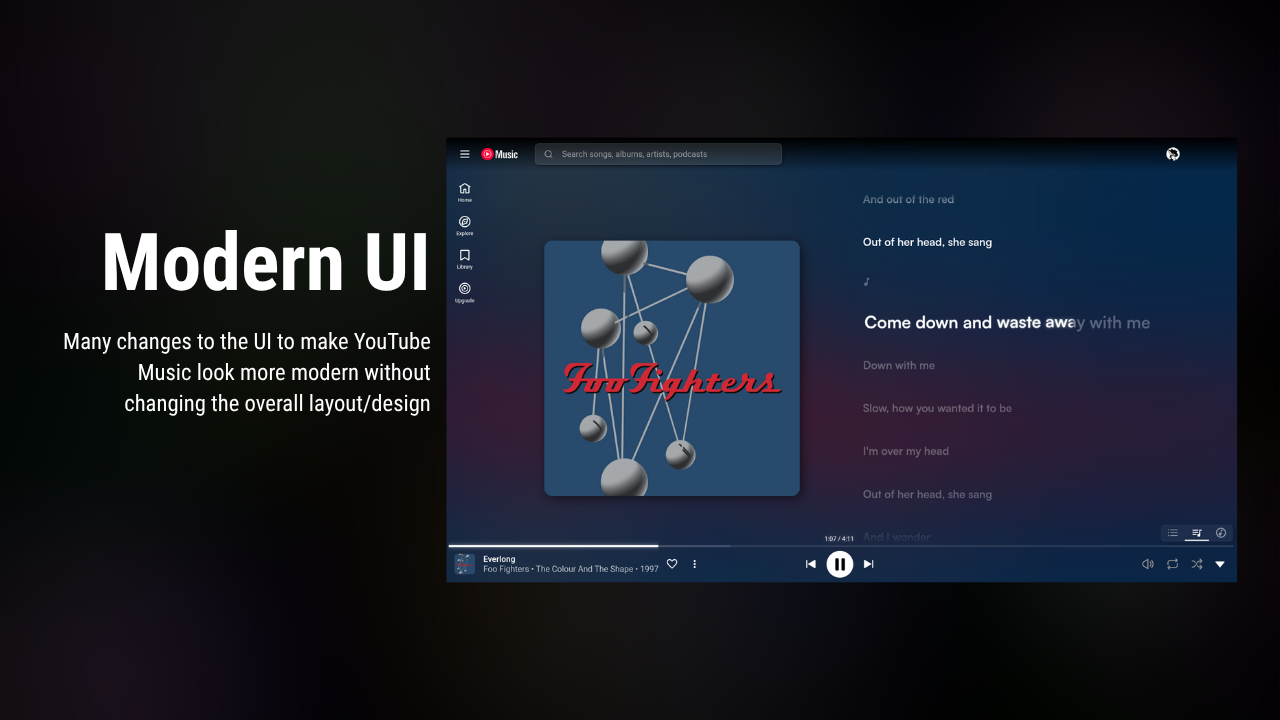
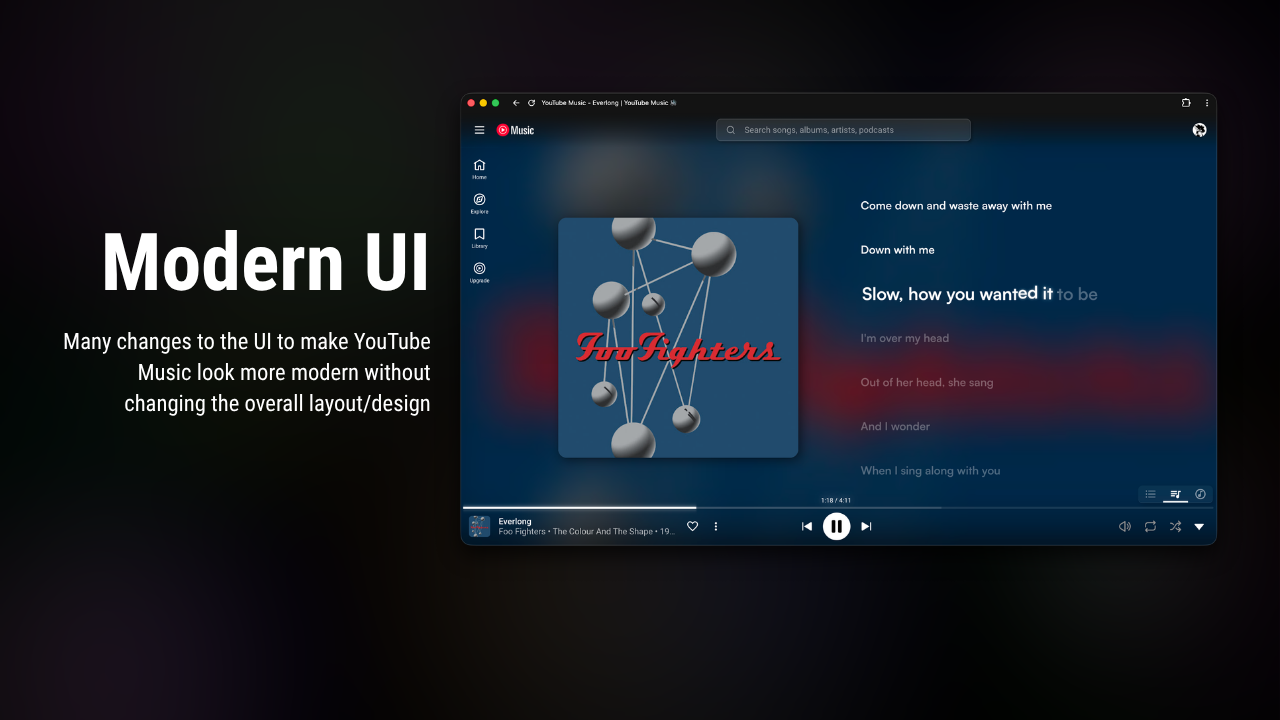
Mini update, mostly bug fixes and update images

diff --git a/style.css b/style.css
@@ -1,3 +1,5 @@
+
+
 /* Hey there, feel free to edit this or use this theme as a base
 If you have any sugestions, tell me on discord. Just ping @wolfthee on the blyrics discord server!
 
@@ -38,13 +40,16 @@ https://github.com/chengggit/YouTube-Music-Dynamic-Theme
 }
 
 
-
 :root {
 
 /* change ytm logo bc why not 
   .logo.ytmusic-logo {
     content: url(https://better-lyrics.boidu.dev/icon-512.png);
   }
+  
+  
+  Set this to your titlebar color*/ 
+  --titlebar-color: rgba(19,19,19,1);
 
 
 /* blyrics config, feel free to edit this */
@@ -98,10 +103,11 @@ https://github.com/chengggit/YouTube-Music-Dynamic-Theme
 
 /* background tuff */
   ytmusic-player-page:before {
-    background-size: unset;
+    background-size: cover;
     transform: translate3d(0, 0, 0); /*Attemp to force gpu usage for blur */
-    filter: brightness(50%) blur(35px) saturate(200%);
-    scale: 4;
+    filter: brightness(50%) blur(65px) saturate(200%);
+    object-fit: cover;
+    object-position: center;
   }
 
 
@@ -114,15 +120,14 @@ https://github.com/chengggit/YouTube-Music-Dynamic-Theme
     background-size: cover;
     background-position: center;
     background-repeat: no-repeat;
-    background-size: unset;
     transform: translate3d(0, 0, 0); /*Attemp to force gpu usage for blur */
-    filter: brightness(15%) blur(20px) saturate(200%);
-    scale: 4;
+    filter: brightness(15%) blur(50px) saturate(200%);
   }
 
   /* Sidebar stuff */
   ytmusic-app[is-bauhaus-sidenav-enabled] #guide-wrapper.ytmusic-app {
     background: rgba(0,0,0,0.3); 
+    backdrop-filter: blur(20px);
   }
 
   ytmusic-guide-entry-renderer[active] tp-yt-paper-item.ytmusic-guide-entry-renderer {
@@ -190,6 +195,7 @@ ytmusic-immersive-header-renderer[is-bauhaus-sidenav-enabled] .image.ytmusic-imm
     font-size: 2.5em;
     text-shadow: 0px 0px 20px rgba(255,255,255,0.35);
   }
+  
 
 
 
@@ -294,7 +300,7 @@ ytmusic-immersive-header-renderer[is-bauhaus-sidenav-enabled] .image.ytmusic-imm
         color: white;
         padding-bottom: 0px;
         margin-left: 2px;
-        text-shadow: 0 0 10px rgba(255,255,255,0.5);
+        text-shadow: 0 0 15px rgba(255,255,255,0.7);
       }
   }
 
@@ -330,9 +336,9 @@ ytmusic-immersive-header-renderer[is-bauhaus-sidenav-enabled] .image.ytmusic-imm
     overflow: hidden;
   }
 
-    
+  /* topnavbar*/
   #layout[player-ui-state="PLAYER_PAGE_OPEN"] #nav-bar-background, #nav-bar-background.ytmusic-app-layout {
-    background-image: linear-gradient(rgba(0,0,0,1) 1%, rgba(0,0,0,0) 100%) !important;
+    background-image: linear-gradient(var(--titlebar-color) 1%, rgba(0,0,0,0) 100%) !important;
     border-bottom: none;
     backdrop-filter: blur(10px) brightness(50%);
   }
@@ -343,6 +349,15 @@ ytmusic-immersive-header-renderer[is-bauhaus-sidenav-enabled] .image.ytmusic-imm
    #layout[player-ui-state="PLAYER_PAGE_OPEN"] #nav-bar-background {
        backdrop-filter: blur(0px);
    }
+
+   ytmusic-nav-bar[is-bauhaus-sidenav-enabled] .center-content.ytmusic-nav-bar {
+    position: relative;
+    justify-content: center;
+    align-items: center;
+    padding-left: 0;
+    flex-shrink: 1;
+     backdrop-filter: blur(50px);
+  }
 
 /* album art */
   ytmusic-player-page:not([is-mweb-modernization-enabled]):not([video-mode]) #player.ytmusic-player-page {
@@ -365,7 +380,7 @@ ytmusic-immersive-header-renderer[is-bauhaus-sidenav-enabled] .image.ytmusic-imm
   }
 
   #player-bar-background.ytmusic-app-layout {
-    background: rgba(20, 20, 20, 0.85);
+    background: rgba(15, 15, 15, 0.7);
     backdrop-filter: blur(10px);
   }
   
@@ -520,9 +535,17 @@ ytmusic-immersive-header-renderer[is-bauhaus-sidenav-enabled] .image.ytmusic-imm
   #primaryProgress.tp-yt-paper-progress {
     filter: drop-shadow(0px 0px 4px rgba(255,255,255,0.5));
   }
-
+/* ================== */
   
 
+  .strapline.ytmusic-carousel-shelf-basic-header-renderer::before {
+    content: "Hello, ";
+    text-transform: none;
+  }
+  
+  ytmusic-nav-bar[is-bauhaus-sidenav-enabled] .right-content.ytmusic-nav-bar {
+      padding-right: 8px;
+  }
 
 
   @keyframes rotate{
@@ -551,4 +574,3 @@ ytmusic-immersive-header-renderer[is-bauhaus-sidenav-enabled] .image.ytmusic-imm
   }
   
 }
-

diff --git a/DESCRIPTION.md b/DESCRIPTION.md
@@ -4,11 +4,20 @@ The way YouTube Music should have been
 - Better Scaling
 - Background Blur effects
 - Button redesigns
+- Hover Effects
+- Redone animations!
 - Small UI fixes/changes
 - More UI consistency
+- Padding changes
 - Glow and shadows effects
 - More coming soon
 
 ## Installation Notes
 This theme works best with the album art background enabled.
 If using a laptop, disable Show stylized animations to save power.
+
+## This version changelog - ver 1.4.2
+- Fixed some buggy animations
+- Updated some paddings
+- Added missing blur effects
+- Updated navbar to match titlebar color when youtube music is ran as a web app
